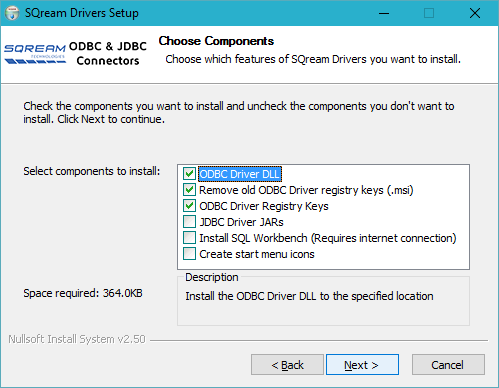
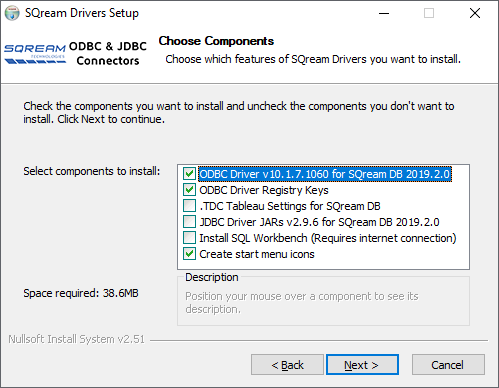
Tableau document almost done

diff --git a/tutorials/getting_started/connect_to_sqream/third_party_tools/tableau.rst b/tutorials/getting_started/connect_to_sqream/third_party_tools/tableau.rst
@@ -14,14 +14,83 @@ You can use Tableau to connect to a SQream DB cluster. This tutorial is a guide 
 Installing Tableau Desktop
 ============================
 
+SQream DB has been tested with versions 9.2 and newer.
+If you do not already have Tableau Desktop installed, download and install Tabelau Desktop. https://www.tableau.com/products/trial
+
+Tableau offers a time-limited trial version.
+
+
 Installing the ODBC driver and customizations
 ===============================================
+
+If you've already installed the SQream DB ODBC driver, we recommend that you :ref:`re-run the ODBC driver installer <install_odbc_windows>` after installing Tableau, and select the Tableau customizations checkbox, as in the image below:
+
+.. image:: /_static/images/odbc_windows_installer_tableau.png
+
+This is necessary because by default, Tableau has a tendency to create temporary tables and run lots of discovery queries which could impact performance.
+The ODBC driver installer installs customizations for Tableau automatically.
+
+If you want to perform this step manually, follow the instructions in the next section.
 
 The TDC file
 ---------------
 
+The TDC file (Tableau Datasource Customization) helps Tableau make full use of SQream DB's features and capabilities.
+
+Before you start, check which version of Tableau is used. The version needs to be placed in the TDC file.
+
+#. Download the TDC file to your computer :download:`odbc-sqream.tdc <odbc-sqream.tdc>`.
+   
+   Alternatively, copy the text below to a text editor.
+   
+   .. literalinclude:: odbc-sqream.tdc
+      :language: xml
+      :caption: SQream DB ODBC TDC
+      :emphasize-lines: 2
+
+
+#. Change the highlighted line to match your major Tableau version. For example, if you're on Tableau ``2019.2.1``, writing ``2019.2`` is enough.
+
+#. Save the TDC file into ``C:\Users\<user name>\Documents\My Tableau Repository\Datasources``, where ``<user name>`` is the Windows username Tableau is installed in.
+
+Configure the ODBC connection (DSN)
+======================================
+
+Create an ODBC DSN before connecting Tableau with SQream DB. See the section titled :ref:`create_windows_odbc_dsn` for information about creating an ODBC DSN in Windows.
+
+Remember to test the connectivity before saving the DSN.
+
 Connecting Tableau to SQream DB
 =================================
+
+#. Start Tableau Desktop and select "Other Database (ODBC)", by navigating :menuselection:`Connect --> To a server --> More --> Other Database (ODBC)`
+   
+   .. image:: /_static/images/tableau_more_servers.png
+   
+#. In the DSN selection window, select the DSN that you created earlier and select :menuselection:`Connect --> OK`. 
+   
+   If prompted by Tableau, you may need to specify the user name and password again after clicking Connect.
+   
+   .. image:: /_static/images/tableau_choose_dsn_and_connect.png
+   
+
+Setting up SQream DB tables as data sources
+==============================================
+
+Once connected, you are taken to the data source page.
+
+The left side of the screen contains a database and schema drop-down. Select the database name and schema name you wish to use (``public`` is the default schema in SQream DB).
+
+   .. image:: /_static/images/tableau_data_sources.png
+
+
+Drag tables you wish to use to the main area, marked as **Drag tables here**. This is also where you specify joins and data source filters.
+
+When data source setup is completed, navigate to a new sheet to start analyzing data.
+
+.. tip:: 
+   * Read more about configuring data sources, joining, filtering, and more on `Tableau's Set Up Data Sources <https://help.tableau.com/current/pro/desktop/en-us/datasource_prepare.htm>`_ tutorials.
+   * Rename the connection with a descriptive name for other users to understand. Alternatively, Tableau will generate a default name based on the DSN and tables.
 
 Tableau best practices
 ========================

diff --git a/tutorials/getting_started/connect_to_sqream/odbc/install_configure_odbc_windows.rst b/tutorials/getting_started/connect_to_sqream/odbc/install_configure_odbc_windows.rst
@@ -54,6 +54,8 @@ You can deselect items you don't want to install, but the items named **ODBC Dri
 
 Once the installer finishes, you will be ready to configure the DSN for connection.
 
+.. _create_windows_odbc_dsn:
+
 3. Configuring the ODBC Driver DSN
 ======================================
 
